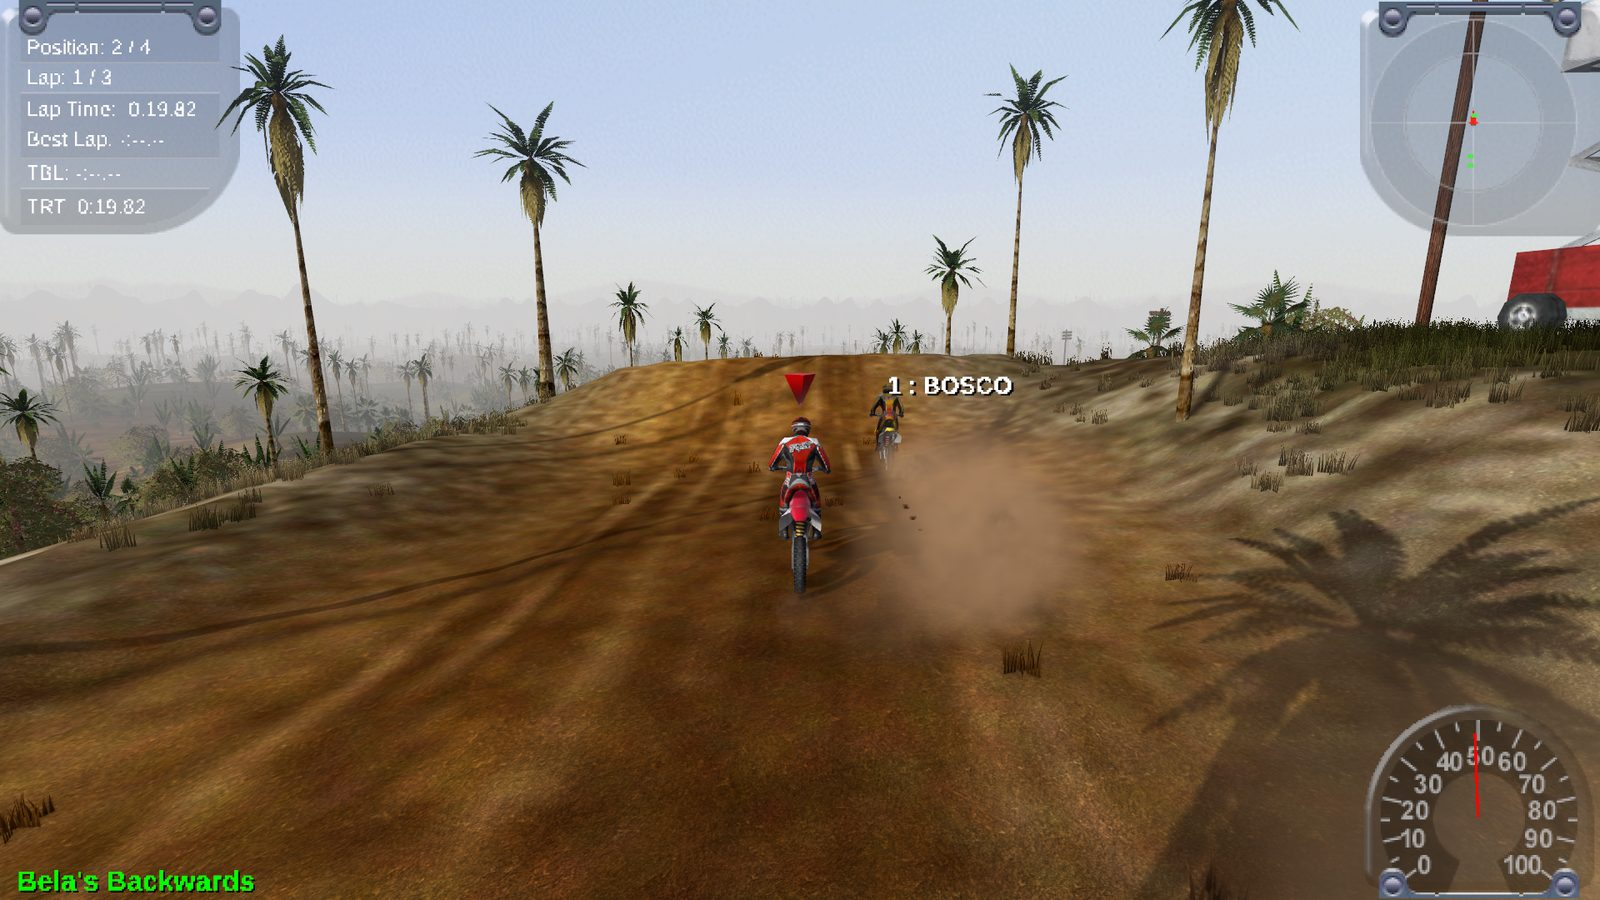
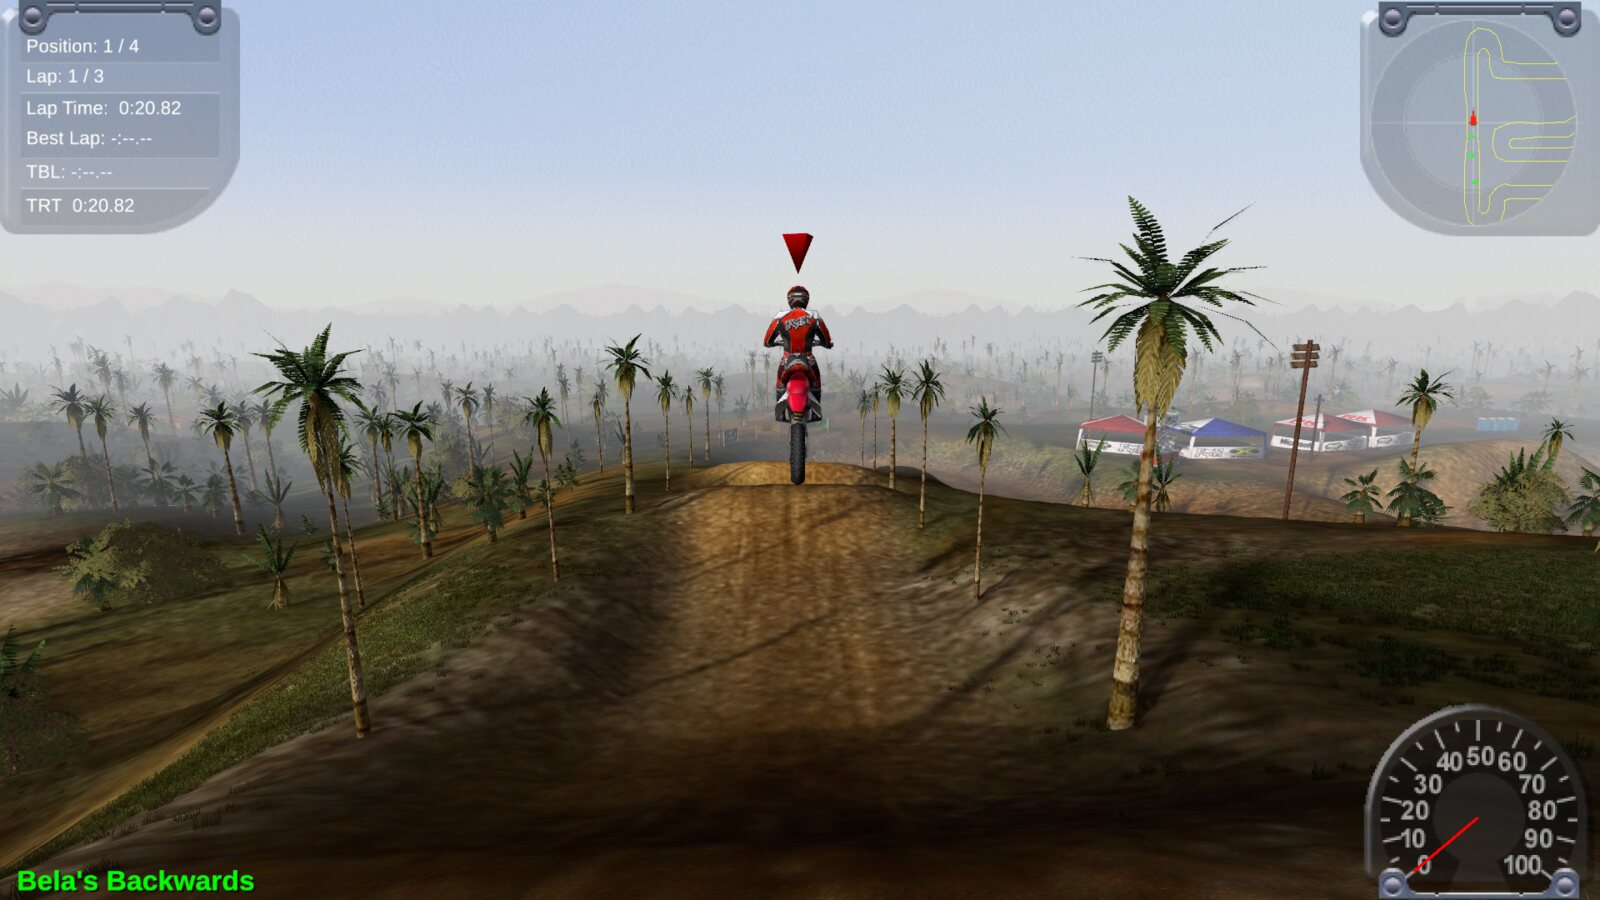
Refresh the site and README screenshots for 0.8 (#198)
* Refresh the site and README screenshots for 0.8

New frames from the current build: the original-look tour and gallery
shots with the new rider stance and cameras, the Enhanced shots with
bounce light, the Free Pack shots with the reworked tracks, brighter
colour and slimmer rider, the Course Builder with its new tool tabs, and
a social preview with the logo over a free track.

Claude-Session: https://claude.ai/code/session_01SFn3bYmNo3GHNtXUPkrKq6

* Keep the earlier supercross air and crash shots

Claude-Session: https://claude.ai/code/session_01SFn3bYmNo3GHNtXUPkrKq6

* Keep the earlier original/enhanced comparison pair

Claude-Session: https://claude.ai/code/session_01SFn3bYmNo3GHNtXUPkrKq6

* Keep the earlier enduro airfield shot

Claude-Session: https://claude.ai/code/session_01SFn3bYmNo3GHNtXUPkrKq6

* Keep the earlier enhanced national shot

Claude-Session: https://claude.ai/code/session_01SFn3bYmNo3GHNtXUPkrKq6

* Keep the earlier nationals battle shot

Claude-Session: https://claude.ai/code/session_01SFn3bYmNo3GHNtXUPkrKq6

* Re-shoot the refreshed pictures at Ultra with bounce light

Claude-Session: https://claude.ai/code/session_01SFn3bYmNo3GHNtXUPkrKq6

* Keep the earlier whoops, night supercross, Bruised Butte and quarry shots

Claude-Session: https://claude.ai/code/session_01SFn3bYmNo3GHNtXUPkrKq6

* Gallery: ruts worn into Bruised Butte by the third lap

Claude-Session: https://claude.ai/code/session_01SFn3bYmNo3GHNtXUPkrKq6
[…]

diff --git a/site/index.html b/site/index.html
@@ -49,7 +49,7 @@
       <a class="btn heart" href="https://github.com/sponsors/crspytopgn"><span aria-hidden="true">♥</span> Support it</a>
     </div>
   </div>
-  <figure class="hero-img"><img src="img/hero-dusk.jpg" alt="Riders on a national track at dusk, running in OpenMCM2"></figure>
+  <figure class="hero-img"><img src="img/hero-dusk.jpg" alt="Riders on Bela's Backwoods at dusk, running in OpenMCM2"></figure>
 </header>
 
 <main>
@@ -128,8 +128,8 @@
   <p class="sub">The Free Pack is a full set of new art made for OpenMCM2: bikes and riders, a supercross stadium with lights for night races, 38 new tracks across every event, skies, trees, trucks and planes. Everything in it is ours or openly licensed, so anyone can download it and ride. Already have the game? Pick MM2 graphics or free graphics each time you play. With no MM2 files at all you still get the whole game: every menu, single races on the free tracks, a Pro Circuit career, and the Course Builder.</p>
   <div class="strip three-up">
     <figure><img src="img/free-sx-night.jpg" alt="The free supercross stadium at night under its lights" loading="lazy"><figcaption>Supercross under the lights</figcaption></figure>
-    <figure><img src="img/free-national.jpg" alt="A full gate leaving the start on a free national track" loading="lazy"><figcaption>A new national track</figcaption></figure>
-    <figure><img src="img/free-bike.jpg" alt="The free bike and rider kit" loading="lazy"><figcaption>New bikes and rider kit</figcaption></figure>
+    <figure><img src="img/free-national.jpg" alt="Racing on Copper Ridge, a free national track" loading="lazy"><figcaption>A new national track</figcaption></figure>
+    <figure><img src="img/free-bike.jpg" alt="The free Ridgeback bike and rider kit" loading="lazy"><figcaption>New bikes and rider kit</figcaption></figure>
   </div>
   <div class="cta"><a class="btn primary" href="play/">Play free in your browser</a> <a class="btn" href="https://github.com/crspytopgn/openmcm2/releases/latest">Download for Mac, Windows, Linux</a></div>
 </section>
@@ -287,6 +287,7 @@
     <a href="img/rain.jpg"><img src="img/rain.jpg" alt="A national track in the rain" loading="lazy"></a>
     <a href="img/baja-dusk.jpg"><img src="img/baja-dusk.jpg" alt="Baja forest course at dusk" loading="lazy"></a>
     <a href="img/sx-stadium.jpg"><img src="img/sx-stadium.jpg" alt="Supercross stadium with crowd stands" loading="lazy"></a>
+    <a href="img/ruts.jpg"><img src="img/ruts.jpg" alt="Tyre marks and ruts worn into Bruised Butte by the third lap" loading="lazy"></a>
     <a href="img/nat-butte.jpg"><img src="img/nat-butte.jpg" alt="Three riders on a national track" loading="lazy"></a>
   </div>
 </section>

diff --git a/README.md b/README.md
@@ -39,7 +39,7 @@ Also new: **photo mode** and **race the leaderboard ghosts** (both in Extras, of
 
 ## Build your own tracks
 
-![The Course Builder: draw a line, add jumps, paint the ground and ride it](assets/readme/course-builder.gif)
+![The Course Builder with a Surprise me supercross track and the jump kit open](assets/readme/course-builder.jpg)
 
 The **Course Builder** is on the main menu. Draw the line, drop in jumps,
 whoops and rhythm sections, paint sand and mud, add bales, tents and
@@ -83,7 +83,7 @@ in the download and the browser.
 
 | | |
 |---|---|
-| ![The free supercross stadium at night](assets/readme/free-sx-night.jpg) | ![A full gate leaving the start on a free national track](assets/readme/free-national.jpg) |
+| ![The free supercross stadium at night](assets/readme/free-sx-night.jpg) | ![Racing on Copper Ridge, a free national track](assets/readme/free-national.jpg) |
 
 The **Free Pack** is a whole set of new art made for OpenMCM2: bikes and
 riders, a supercross stadium with lights for night races, 38 new tracks
